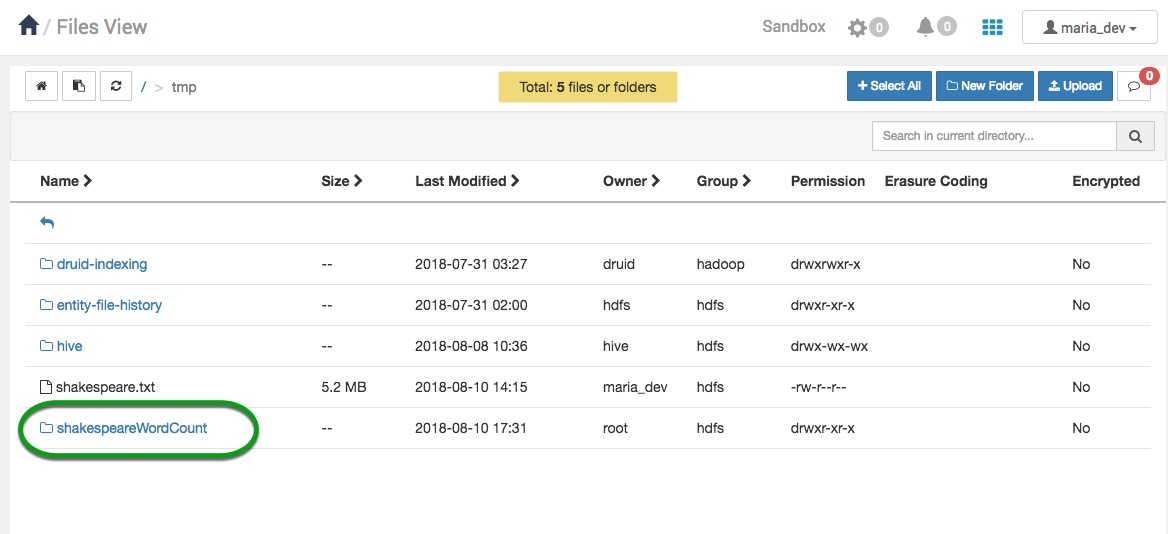
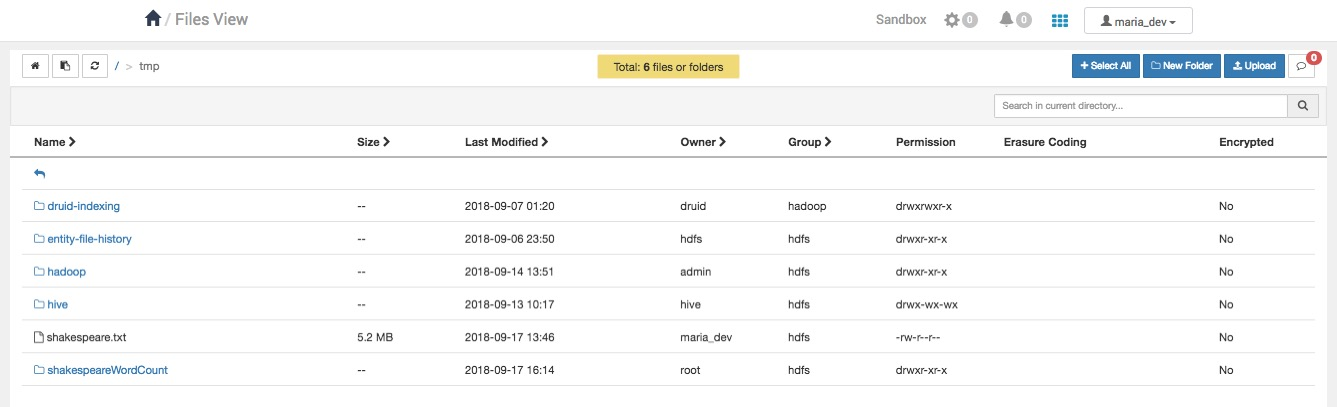
Updates for HDP3.0.0

diff --git a/tutorials/hdp/setting-up-a-spark-development-environment-with-scala/tutorial.md b/tutorials/hdp/setting-up-a-spark-development-environment-with-scala/tutorial.md
@@ -7,7 +7,7 @@ persona: Data Scientist & Analyst
 source: Hortonworks
 use case: Predictive
 technology: Apache Spark
-release: hdp-2.6.5
+release: hdp-3.0.0
 environment: Sandbox
 product: HDP
 series: HDP > Develop with Hadoop > Apache Spark
@@ -285,7 +285,7 @@ Next, copy the absolute path of your jar and use it to Secure Copy (SCP) it to t
 scp -P 2222 ~/IdeaProjects/HelloScala/target/scala-2.11/helloscala_2.11-1.0.jar root@sandbox-hdp.hortonworks.com:/root
 ~~~
 
-Open your favorite browser and navigate to sandbox-hdp.hortonworks.com:4200 and log on as root.
+Open your favorite browser and navigate to [sandbox-hdp.hortonworks.com:4200](http://sandbox-hdp.hortonworks.com:4200/) and log on as root.
 
 Use spark-submit to run our code. We need to specify the main class, the jar to run, and the run mode (local or cluster):
 
@@ -321,11 +321,13 @@ Additionally, if you open the File View in Ambari you should see results under /
 
 ![wordcount-hdfs](assets/wordcount-hdfs.jpg)
 
-You can open the new directory and open _part-0000_ to view the output of the program.
+You can open the new directory and select _part-00000_ to view the output of the program click on **Open** located at the left side of the page.
+
+![open-part-00000](assets/open-part-00000.jpg)
 
 ![file-preview](assets/file-preview.jpg)
 
-## Deploying to the cloud
+<!---## Deploying to the cloud
 
 In this section we'll learn how to deploy our code to a real cluster. If you don't have a cluster available you can quickly set one up on [AWS](https://hortonworks.com/products/cloud/aws/) using Hortonworks Data Cloud or on Azure using [HDInsight](https://azure.microsoft.com/en-us/services/hdinsight/) (which is powered by Hortonworks). These services are designed to let you quickly spin up a cluster for a few hours (perhaps on cheaper spot instances), run a series of jobs, then spin the cluster back down to save money. If you want a permanent installation of Hadoop that will run for months without being shutdown, you should download Hortonworks Data Platform from [here](https://hortonworks.com/downloads/) and install it on your servers.
 
@@ -353,7 +355,7 @@ Notice that we specified the parameters **_--master yarn_** instead of **_--mast
 
 The parameter **_--deploy-mode client_** indicates we want to use the current machine as the driver machine for Spark. The driver machine is a single machine that initiates a Spark job, and is also where summary results are collected when the job is finished. Alternatively, we could have specified **_--deploy-mode cluster_**, which would have allowed YARN to choose the driver machine.
 
-It's important to note that a poorly written Spark program can accidentally try to bring back many Terabytes of data to the driver machine, causing it to crash. For this reason you shouldn't use the master node of your cluster as your driver machine. Many organizations submit Spark jobs from what's called an edge node, which is a separate machine that isn't used to store data or perform computation. Since the edge node is separate from the cluster, it can go down without affecting the rest of the cluster. Edge nodes are also used for data science work on aggregate data that has been retrieved from the cluster. For example, a data scientist might submit a Spark job from an edge node to transform a 10 TB dataset into a 1 GB aggregated dataset, and then do analytics on the edge node using tools like R and Python. If you plan on setting up an edge node, make sure that machine doesn't have the DataNode or HostManager components installed, since these are the data storage and compute components of the cluster. You can check this on the host tab in Ambari.
+It's important to note that a poorly written Spark program can accidentally try to bring back many Terabytes of data to the driver machine, causing it to crash. For this reason you shouldn't use the master node of your cluster as your driver machine. Many organizations submit Spark jobs from what's called an edge node, which is a separate machine that isn't used to store data or perform computation. Since the edge node is separate from the cluster, it can go down without affecting the rest of the cluster. Edge nodes are also used for data science work on aggregate data that has been retrieved from the cluster. For example, a data scientist might submit a Spark job from an edge node to transform a 10 TB dataset into a 1 GB aggregated dataset, and then do analytics on the edge node using tools like R and Python. If you plan on setting up an edge node, make sure that machine doesn't have the DataNode or HostManager components installed, since these are the data storage and compute components of the cluster. You can check this on the host tab in Ambari.--->
 
 ## Live Debugging
 
